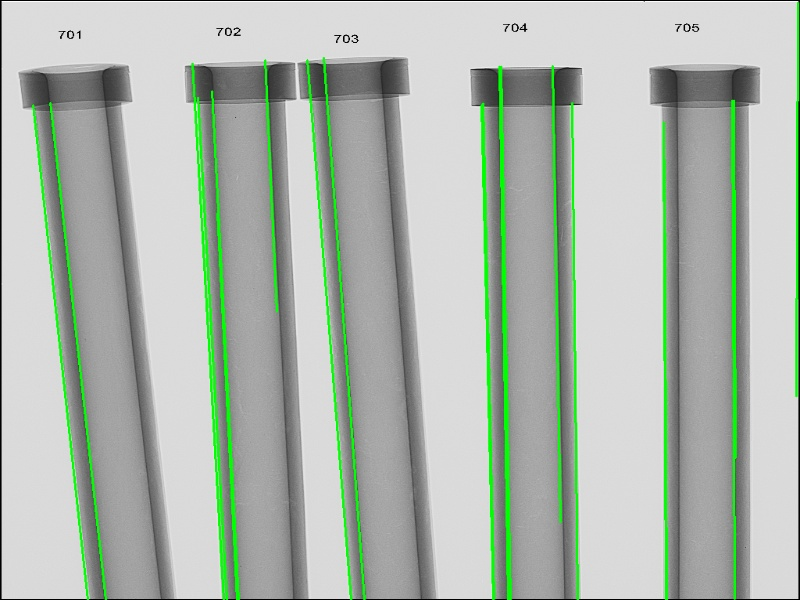
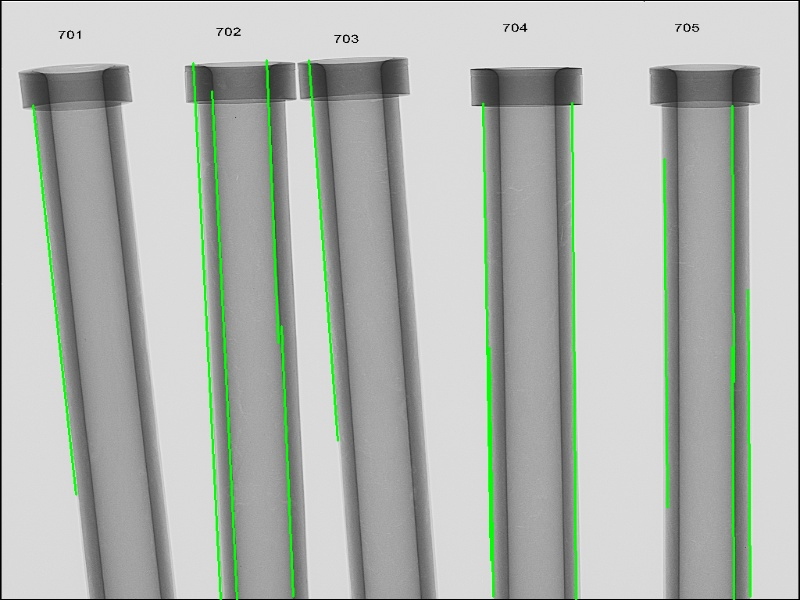
wall thickness detected

diff --git a/5_power_pipes.py b/5_power_pipes.py
@@ -72,14 +72,16 @@ def filter_with_point(lines, y=200, tx=10):
 
     return np.array(lines)[index_array]
         
-def check_thickness(full_lines):
+def check_thickness(full_lines, diff_thresh=5, edge_thresh=3):
     y1 = 300
     y2 = 500
     y3 = 700
     y4 = 900
-    
+
     selected_coor = []
-    for group in np.array_split(full_lines, len(full_lines) // 4)
+    check_array = []
+    for group in np.array_split(full_lines, len(full_lines) // 4):
+        
         for line in group:
             slope, intercept = get_slop_intercept(line)
             slope = 0 if slope is None else slope
@@ -90,12 +92,24 @@ def check_thickness(full_lines):
             x3 = (y3 - intercept) // slope if slope != 0 else 0
             x4 = (y4 - intercept) // slope if slope != 0 else 0
 
-            selected_coor.append((x1, x2, x3, x4))
+            selected_coor.append(np.array([x1, x2, x3, x4]))
+        dist1 = np.abs(selected_coor[0] - selected_coor[1])
+        dist2 = np.abs(selected_coor[2] - selected_coor[3])
+        print(dist1, dist2)
+
+        edge_diff = np.all(np.abs(dist1 - dist2) >= edge_thresh)
+        # right_edge = np.all(dist1 > thresh)
+        # left_edge = np.all(dist2 > thresh)
+
+        check_array.append(edge_diff)
+    return check_array
+
+
 
 results_path = os.path.join(os.getcwd(), 'results')
 test_path = os.path.join(os.getcwd(), 'test')
 
-image = cv2.imread(os.path.join(test_path, 'wt2.bmp'))
+image = cv2.imread(os.path.join(test_path, 'a.bmp'))
 cv2.imshow('original', cv2.resize(image, (800, 600)))
 # cv2.imwrite(os.path.join(results_path, 'original.jpg'), cv2.resize(image, (800, 600)))
 
@@ -145,8 +159,16 @@ for x1, y1, x2, y2  in filtered_lines:
         for x, y in zip(xs, ys):
             cv2.circle(clineImage, (x,y), 2, (255,0,0), 2)
 
-print(np.array_split(filtered_lines, len(filtered_lines)//4))
+try:
+    wt_pos = check_thickness(filtered_lines, 5).index(True) + 1
+    cv2.putText(clineImage, f'there is wall thickness error in tupe number {wt_pos}', (0,50), cv2.FONT_HERSHEY_SIMPLEX , 1, (0,0,255), 2)
+except ValueError:
+    cv2.putText(clineImage, 'No wall thickness error detected', (0,50), cv2.FONT_HERSHEY_SIMPLEX , 1, (0,0,255), 2)
+
 cv2.imshow('res filtered', cv2.resize(clineImage, (800, 600)))
+cv2.imwrite(os.path.join(results_path, 'wall_thickness 2.jpg'), cv2.resize(clineImage, (800, 600)))
+
+# print(check_thickness(filtered_lines, 5).index(True))
 # cv2.imwrite(os.path.join(results_path, 'res filtered.jpg'), cv2.resize(clineImage, (800, 600)))
 
 
